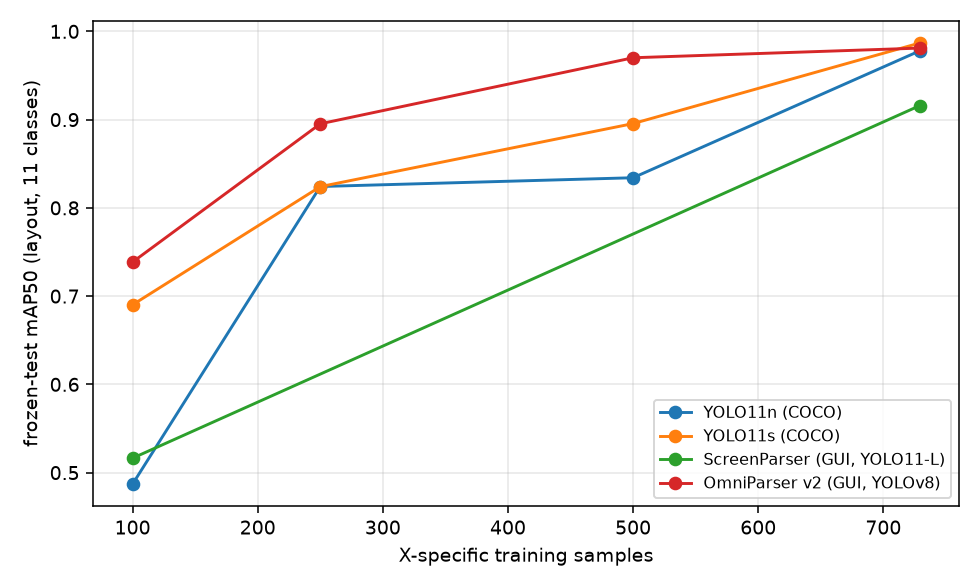
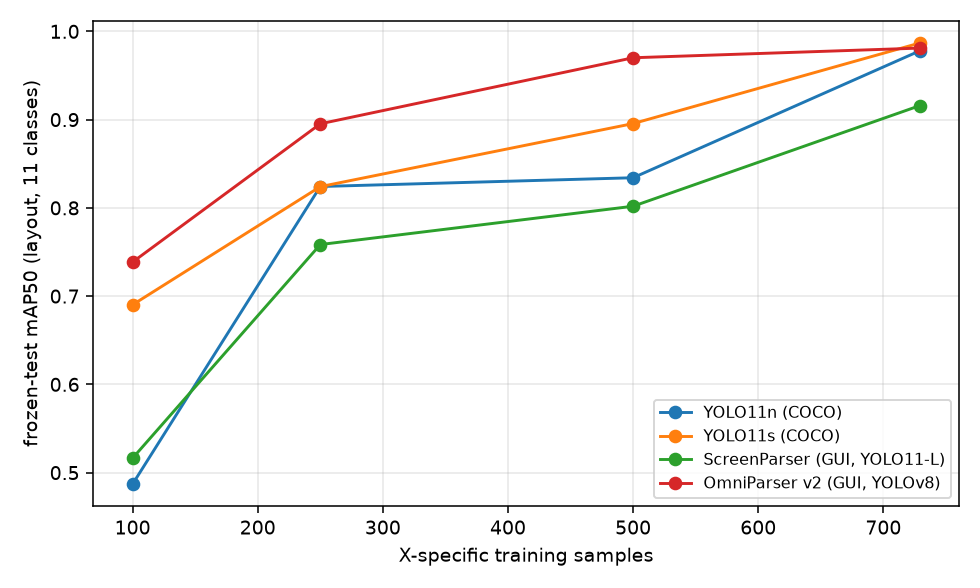
Phase 2 complete: 16/16 scaling matrix（ScreenParser 全档位垫底确认）

diff --git a/docs/layout_ocr_experiment.md b/docs/layout_ocr_experiment.md
@@ -25,11 +25,11 @@
 |---|---|---|---|---|
 | YOLO11n (COCO, 2.6M) | 0.487 | 0.824 | 0.834 | 0.978 |
 | YOLO11s (COCO, 9.4M) | 0.690 | 0.824 | 0.895 | 0.987 |
-| ScreenParser (GUI, YOLO11-L, 25.3M) | 0.516 | —¹ | —¹ | 0.916 |
+| ScreenParser (GUI, YOLO11-L, 25.3M) | 0.516 | 0.758 | 0.802 | 0.916 |
 | **OmniParser v2 icon (GUI, YOLOv8, 20.1M)** | **0.739** | **0.895** | **0.970** | **0.981** |
 
-¹ 两次训练臂因 Colab 会话连续 6 次回收+配额僵尸未完成；两端点已锁定其「两端皆劣」结论，
-中间点不改变任何判断（补跑臂在队列中，表格将自动更新）。
+全部 16 格完成（17 行含 nano-full 的跨机复跑）。ScreenParser 全档位垫底，
+与两端点预判一致：web 页面区块语义 ≠ X 帖子结构语义。
 
 ![scaling curve](../experiments/layout_matrix/scaling_curve.png)
 
